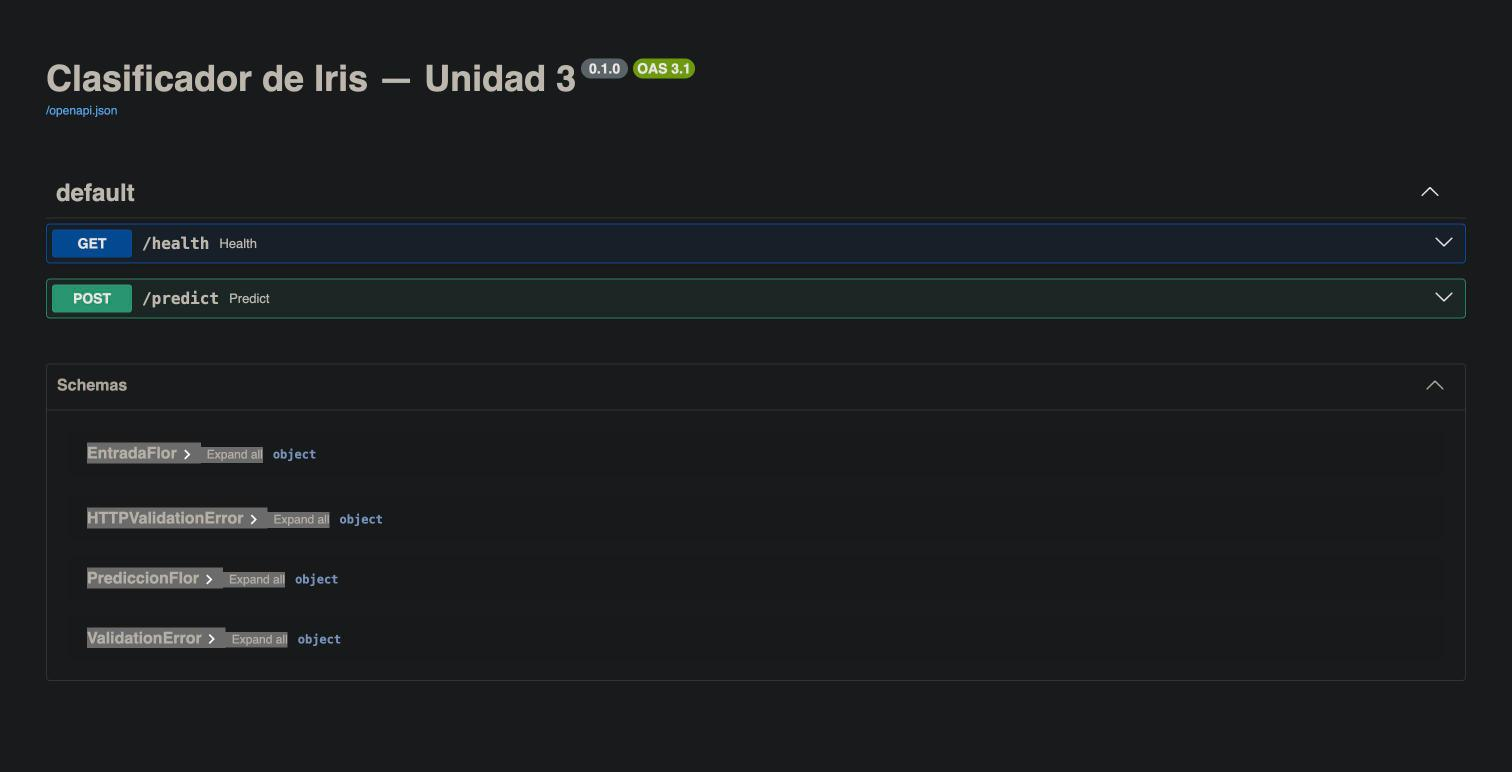
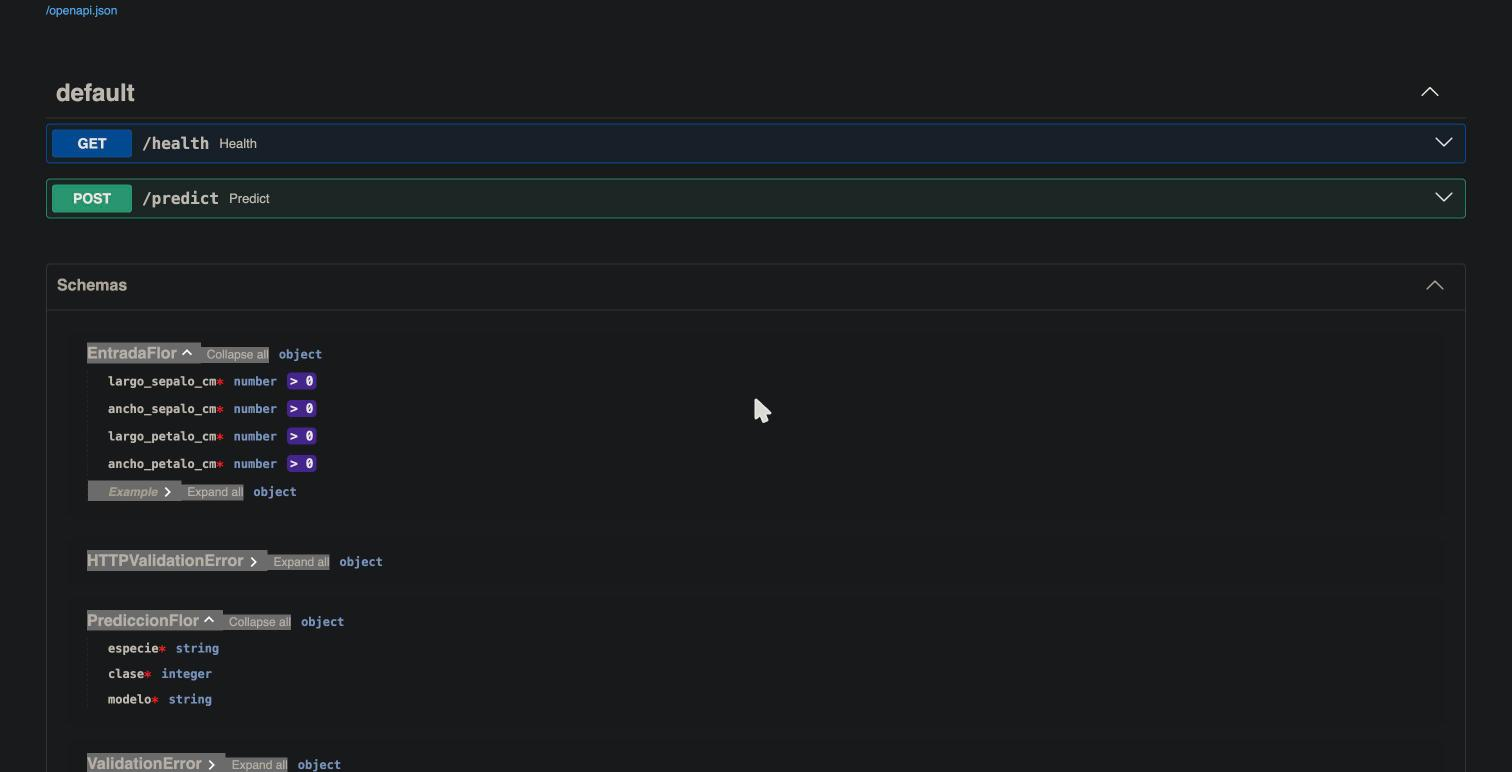
Actualizo capturas de la API y de Docker

diff --git a/unidad3/resultados.md b/unidad3/resultados.md
@@ -25,7 +25,7 @@
 
 ![Modelo registrado](capturas/7_registro.png)
 
-> Con max_depth=1 el árbol hace una sola pregunta y solo puede separar setosa del resto, por eso la accuracy queda en 0.667 y el f1 en 0.556. Con 3 llega a 0.978 y con 4 baja a 0.889: más profundidad no siempre generaliza mejor, se empieza a ajustar demasiado al train. Por eso conviene registrar todas las corridas, también las malas: queda documentado qué se probó y con qué resultado, se puede comparar contra la que está en producción y nadie repite una prueba que ya falló. Es lo mismo que pedí en la consigna 2 con MLflow para las versiones del prompt de CuotaYa.
+> Con max_depth=1 el árbol hace una sola pregunta y solo puede separar setosa del resto, por eso la accuracy queda en 0.667 y el f1 en 0.556. Con 3 llega a 0.978 y con 4 baja a 0.889: más profundidad no siempre generaliza mejor, se empieza a ajustar demasiado al train. Por eso conviene registrar todas las corridas, también las malas: queda documentado qué se probó y con qué resultado, se puede comparar contra la que está en producción y nadie repite una prueba que ya falló. Es lo mismo que propuse en la consigna 2 con MLflow para las versiones del prompt de CuotaYa.
 
 ---
 
